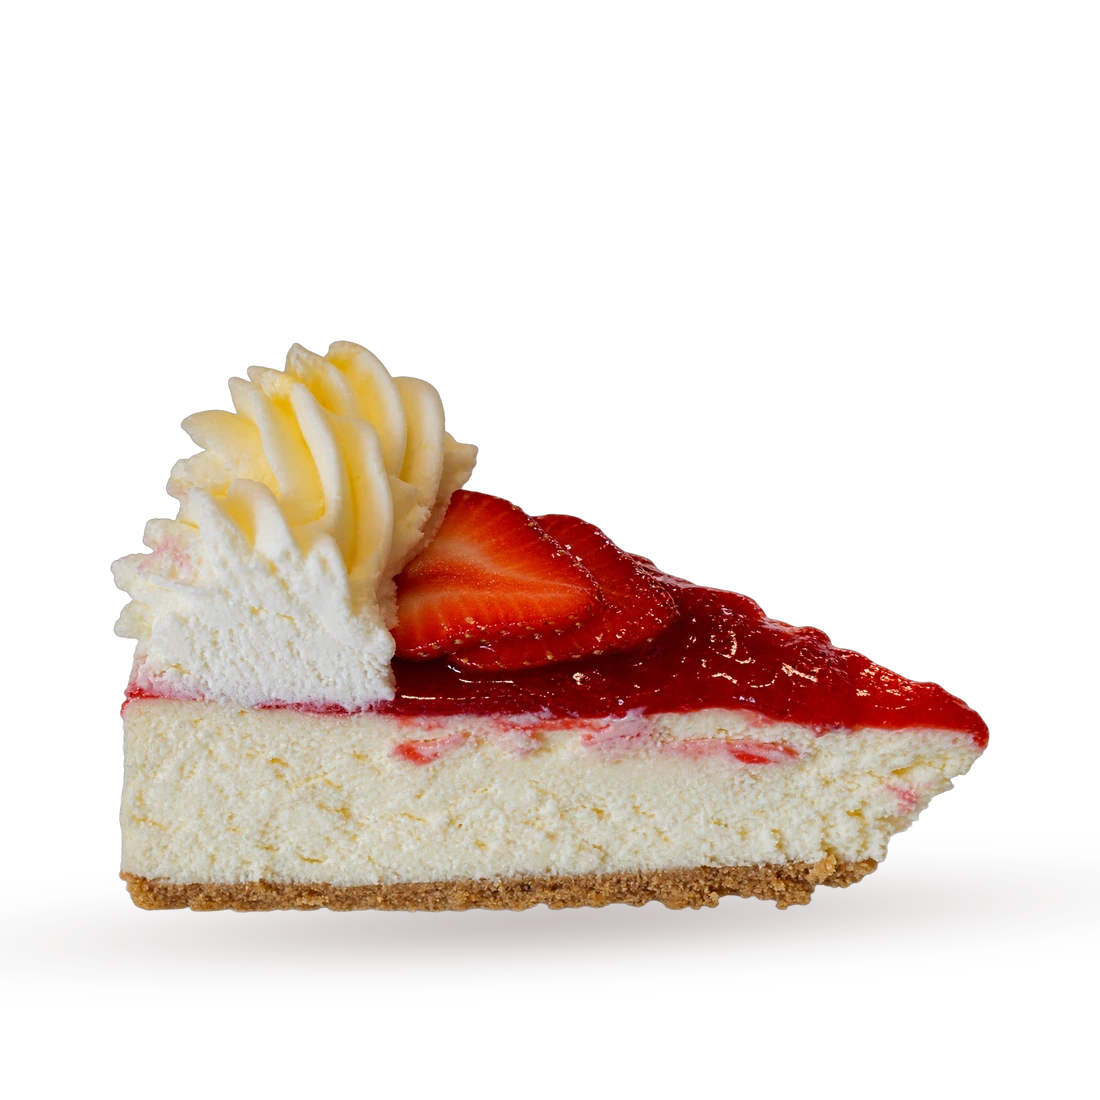
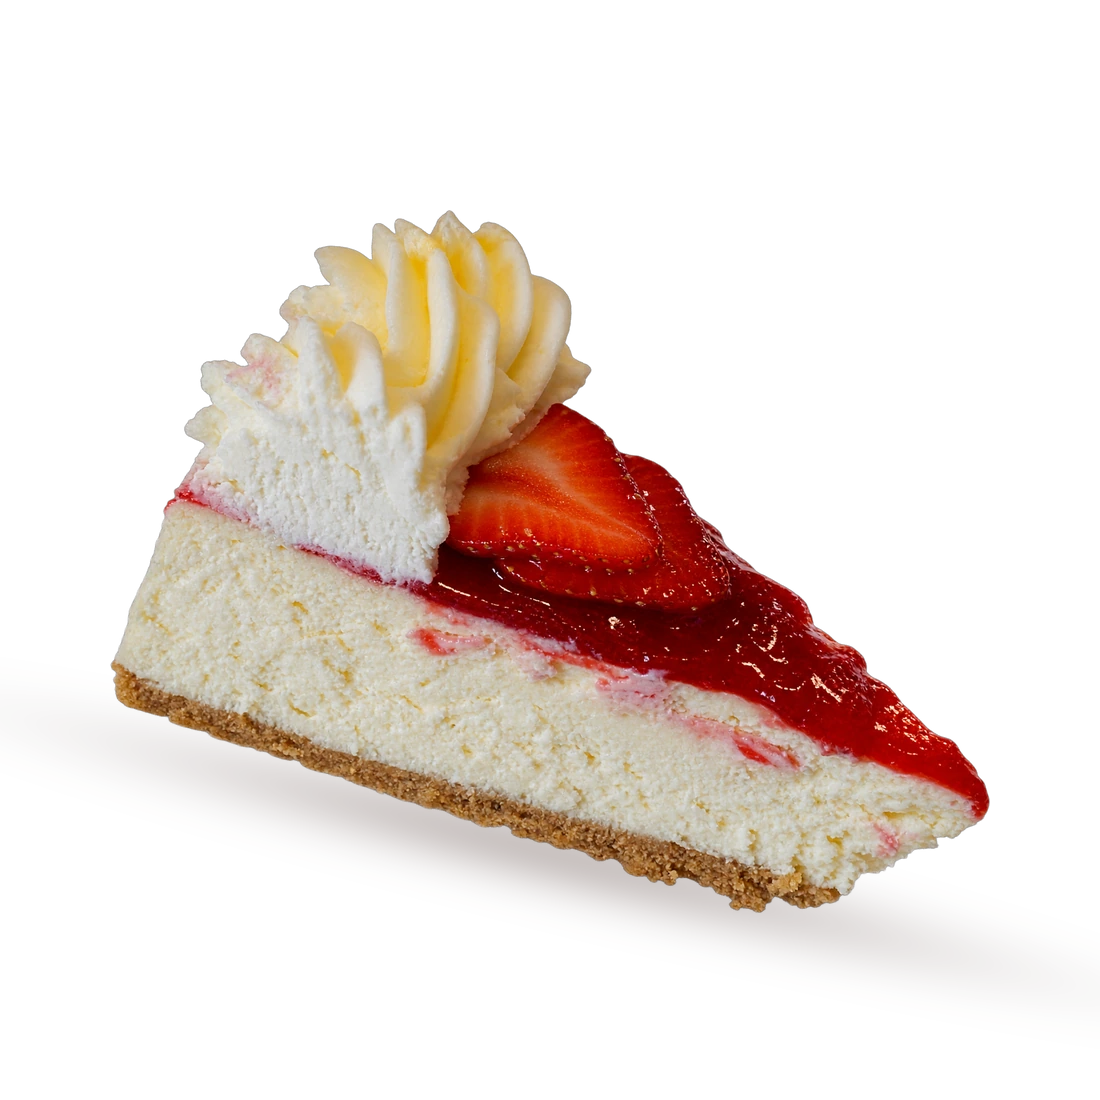
Slices: NY Style Cheesecake con la misma inclinación que las demás
Claude-Session: https://claude.ai/code/session_01C9ppkekJrs6j71wqx2EVeV

Changed region(s): [[0.0927, 0.1855, 0.8964, 0.8964]]

diff --git a/index.html b/index.html
@@ -365,7 +365,7 @@ const PHOTOS={choc_strawberries:1,carrot_cake:2,oreo_mousse:2,vanilla_raspberry:
 P.forEach(p => { if (SEASONAL[p.id]) p.seasonal = true; if (PHOTOS[p.id]){ p.photo = true; p.views = PHOTOS[p.id]; } });
 
 
-const BUILD = '202611091901';
+const BUILD = '202611091905';
 let lang = 'es', cat = 'cupcakes', tag = null, current = -1, view = 'out', list = [];
 try { const s = JSON.parse(localStorage.getItem('ytb-cat') || '{}'); if (s.lang) lang = s.lang; } catch(e) {}
 const $ = id => document.getElementById(id);
